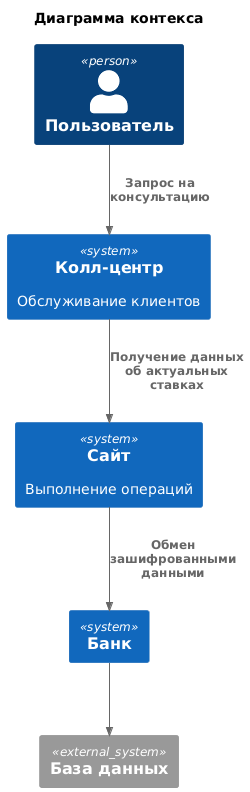
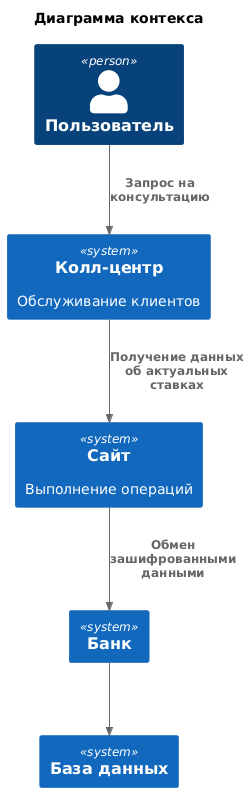
Task4

Changed region(s): [[0.14, 0.9091, 0.728, 1.0]]

diff --git a/Task4/Шаблон_ADR_новый.md b/Task4/Шаблон_ADR_новый.md
@@ -16,16 +16,16 @@
 |  UC2  | Автоматический помощник          | Звонок в колл центр | Если автоматический помощник не смог помочь идет переадресации на сотрудников колл-центра   |
 |  UC3  | Сотрудник                        | Звонок в колл центр | Пользователю отвечает любой свободный сотрудник из банковского или партнерского колл-центра |
 |  UC4  | Сотрудник                        | Звонок в колл центр | Сотрудник смотрит на сайт банка для получения актуальных ставок по депозитам                |
+|  UC5  | Сотрудник                        | Звонок в колл центр | Сотрудник сообщает актуальные ставки клиенту                                                |
 
 ### <a name="_u8xz25hbrgql"></a>**Нефункциональные требования**
 
 Опишите здесь нефункциональные требования и архитектурно значимые требования.
 
-| **№** | **Требование**                                |
-|:-----:|:----------------------------------------------|
-|   1   | Наличие системы переадресации звонков         |
-|   2   | Наличие автоматического помощника колл-центра |
-|   3   | Наличие актуальных ставок на сайте банка      |
+| **№** | **Требование**                                                                      |
+|:-----:|:------------------------------------------------------------------------------------|
+|   1   | В скриптах автоматического помощника должно быть не менее 500 заготовленных ответов |
+|   2   | Время ожидания клиентом на линии не должно быть больше 10 мин                       |
 
 ### <a name="_qmphm5d6rvi3"></a>**Решение**
 
@@ -35,8 +35,8 @@
 Также опишите, какой логикой вы руководствовались в ходе принятия решений и выбора технологий. Не забывайте, что
 необходимо учесть все функциональные и нефункциональные требования.
 
-Для экономии ресурса было решенно добавить автоматического помощника, при больших нагрузках клиент будет автоматически 
-переадрессован на него. Помощник сможет ответить на базовые вопросы, в случаи если он не смог помочь клиенту, клиент 
+Для экономии ресурса было решенно добавить автоматического помощника, при больших нагрузках клиент будет автоматически
+переадрессован на него. Помощник сможет ответить на базовые вопросы, в случаи если он не смог помочь клиенту, клиент
 будет переключен на свободного сотрудника. Сотрудники могут смотреть актульные ставки прямо на онлайн ресурсах банка.
 
 ### <a name="_bjrr7veeh80c"></a>**Альтернативы**
@@ -45,6 +45,7 @@
 
 **Недостатки, ограничения, риски**
 
-Автоматический помощник узко специализирован и может вызывать раздражение у клиентов. Имеет смысл использовать только при 
+Автоматический помощник узко специализирован и может вызывать раздражение у клиентов. Имеет смысл использовать только
+при
 больших нагрузках на колл-центр.
 
